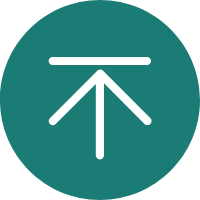
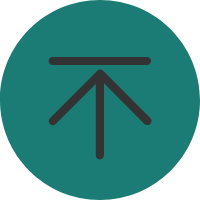
侧边加返回顶部，删掉url的http://126啥啥的

Changed region(s): [[0.24, 0.27, 0.78, 0.81]]

diff --git a/src/main/webapp/JS/renderCommentAndPost.js b/src/main/webapp/JS/renderCommentAndPost.js
@@ -25,8 +25,8 @@ function initializeCommentsAndReplys(type,parentId,userid)
 {
     $.ajax({
         type:'get',
-        // url: 'http://192.168.43.236:8080/WritingCommentServlet?parentId=1&userid=3&type=article',
-        url:'http://192.168.43.236:8080/WritingCommentServlet?type='+type+'&userid=3&parentId='+parentId,
+        // url: '/WritingCommentServlet?parentId=1&userid=3&type=article',
+        url:'/WritingCommentServlet?type='+type+'&userid=3&parentId='+parentId,
         dataType: 'json',
         contentType: "application/json",
         success:function(res){//成功的回调函数
@@ -68,7 +68,6 @@ function countsAndPages(totalCount,totalPage,type,parentId,userid)
                 $(".answerPosts_list > li").remove();
                 //加载出页码为1的评论
                 getCommentsAndReplys(parentId,userid,"time",1,type);
-                // getCommentsAndReplys('http://192.168.43.236:8080/WritingCommentServlet?parentId=1&userid=3&order=time&currentPage=1&type=article');
                 $(".answerLayPageBox > p").hide();  //点击完“加载更多”后，加载更多消失
                //总条数大于10，显示分页栏
                 if(totalCount > 10)
@@ -77,7 +76,6 @@ function countsAndPages(totalCount,totalPage,type,parentId,userid)
                     var isComment = true;   //判断是评论还是回复
                     //创建分页栏
                     laypageList($(".answerLayPageBox"),totalPage,parentId,userid,"time",type,isComment);
-                    // laypageList($(".answerLayPageBox"),totalPage,$(".answerPosts_list"));   
                 }
             }
         });
@@ -85,20 +83,11 @@ function countsAndPages(totalCount,totalPage,type,parentId,userid)
 }
 
 //—————————————————————————————— 点击评论列表的“加载更多”出现 ——————————————————————————————
-// getCommentsAndReplys('http://192.168.43.236:8080/WritingCommentServlet?parentId=1&userid=3&order=time&currentPage=1&type=article');
-
 function getCommentsAndReplys(parentId,userid,order,currentPage,type)
 {
     $.ajax({
         type:'get',
-        // url: 'http://192.168.43.236:8080/WritingCommentServlet?parentId=1&userid=3&type=article',
-        //1评论3回复的测试192.168.43.236
-        // url:'http://192.168.137.150:8080/WritingCommentServlet?parentId=4&userid=3&order=time&currentPage=1&type=article',
-        //热点的ip
-        // url: 'http://192.168.43.236:8080/WritingCommentServlet?parentId=4&userid=3&order=time&currentPage=1&type=article',
-        // url:'http://192.168.43.236:8080/WritingCommentServlet?parentId=1&order=time&currentPage=1&type=article&targetId=1',
-        //直接上的
-        url:'http://192.168.43.236:8080/WritingCommentServlet?parentId='+parentId+'&order='+order+'&currentPage='+currentPage+'&type='+type,
+        url:'/WritingCommentServlet?parentId='+parentId+'&order='+order+'&currentPage='+currentPage+'&type='+type,
         dataType: 'json',
         contentType: "application/json",
         success:function(res){//成功的回调函数
@@ -117,18 +106,13 @@ function getCommentsAndReplys(parentId,userid,order,currentPage,type)
         }
     });
 }
-// getCommentsAndReplys('http://192.168.43.236:8080/WritingCommentServlet?parentId=1&userid=3&order=time&currentPage=1&type=article');
 
 //————————————————————————— 评论下的回复，点击“加载更多”后才出现 ——————————————————————————————————
 function getUnderCommentssReplys(floorNum,parentId,order,currentPage,type,targetId)
 {
     $.ajax({
         type:'get',
-        //热点的ip
-        // url:'http://192.168.43.236:8080/WritingCommentServlet?parentId=1&order=time&currentPage=1&type=article&targetId=1',
-        //直接上的
-        // url:'http://192.168.137.150:8080/WritingCommentServlet?parentId=1&order=time&currentPage=1&type=article&targetId=1',
-        url:'http://192.168.43.236:8080/WritingCommentServlet?parentId='+parentId+'&order='+order+'&currentPage='+currentPage+'&type='+type+'&targetId='+targetId,
+        url:'/WritingCommentServlet?parentId='+parentId+'&order='+order+'&currentPage='+currentPage+'&type='+type+'&targetId='+targetId,
         dataType: 'json',
         contentType: "application/json",
         success:function(res){//成功的回调函数
@@ -209,7 +193,6 @@ function replysCommentsRender(replys,floorNum)
     replyPublishUp(replyListPosition(floorNum),userNickname,timestampToTime(postTime),replyContent,src);
 }
 
-// replyPublishContent(replyListPosition($("#111")),"sfa","111","wjfh","");
 //————————————————————— 获取回复所属评论的list位置 ———————————————————————————
 function replyListPosition(floorNum)
 {   //根据楼层数，让回复跟着所在的评论楼层

diff --git a/src/main/webapp/JS/searchFunction.js b/src/main/webapp/JS/searchFunction.js
@@ -52,7 +52,7 @@ function getSearchDetails(str,idNum)
 {
     $.ajax({
         type:'get',
-        url:'http://192.168.43.236:8080/WritingSearchServlet?wd='+str+'&currentPage=1',
+        url:'/WritingSearchServlet?wd='+str+'&currentPage=1',
         data:{},
         dataType: 'json',
         contentType: 'application/json',
@@ -76,13 +76,13 @@ function skipToType(type,id)
 {
     if(type == 'posts')
     {//跳转到帖子
-        window.location.href = 'http://192.168.43.236:8080/answerPosts.html?'+type+'=' + id;
-        // window.open('http://192.168.43.236:8080/answerPosts.html?'+type+'=' + id); 
+        window.location.href = '/answerPosts.html?'+type+'=' + id;
+        // window.open('/answerPosts.html?'+type+'=' + id); 
     }
     else if(type == 'article')
     {//跳转到文章
-        window.location.href = 'http://192.168.43.236:8080/articleShow.html?'+type+'=' + id;
-        // window.open('http://192.168.43.236:8080/articleShow.html?'+type+'=' + id); 
+        window.location.href = '/articleShow.html?'+type+'=' + id;
+        // window.open('/articleShow.html?'+type+'=' + id); 
     }
 }
 
@@ -102,7 +102,7 @@ function getSearchTipsData(str)
 {
     $.ajax({
         type:'get',
-        url:'http://192.168.43.236:8080/WritingSearchTipServlet?wd='+str+'&currentPage=1',
+        url:'/WritingSearchTipServlet?wd='+str+'&currentPage=1',
         data:{},
         dataType: 'json',
         contentType: 'application/json',

diff --git a/src/main/webapp/chatRoom.html b/src/main/webapp/chatRoom.html
@@ -85,13 +85,13 @@
                         <img src="./img/chatRoomLogo.png" alt=""/>
                     </li>
                     <li>
-                        <a href="#">学习天地</a>
+                        <a href="./LearningWorld_HS.html">学习天地</a>
                     </li>
                     <li>
-                        <a href="#">专业介绍</a>
+                        <a href="./professionalIntroduction.html">专业介绍</a>
                     </li>
                     <li>
-                        <a href="#">大学生活</a>
+                        <a href="./universityLife.html">大学生活</a>
                     </li>
                 </ul>
                 <div id="personalCenter">

diff --git a/src/main/webapp/CSS/universityLife.css b/src/main/webapp/CSS/universityLife.css
@@ -510,3 +510,23 @@ body{
     color: #333333;
 }
 
+/* ———————————————————————— 回到顶部 ———————————————————————————— */
+#returnToTopBtn{
+    width: 50px;
+    height: 50px;
+    position: fixed;
+    bottom: calc(25% - 60px);
+    right: 60px;
+    border-radius: 50%;
+    background: url(../img/answerPosts_toTop.png) no-repeat;
+    background-size: 51px;
+    background-color: #fff;
+    box-shadow: 1px 1px 10px rgba(0, 0, 0,0.2);
+    cursor: pointer;
+    transition-duration: 0.3s;
+    /* border: 1px solid #f00; */
+}
+
+#returnToTopBtn:hover{
+    background-image: url(../img/answerPosts_toTopHover.png);
+}

diff --git a/src/main/webapp/JS/replysAndPosts.js b/src/main/webapp/JS/replysAndPosts.js
@@ -351,7 +351,6 @@ function laypageList(positionBox,pageNum,parentId,userid,order,type,isComment)
                 $(".answerPosts_list > li").remove();
                 //获得评论楼层的
                 getCommentsAndReplys(parentId,userid,order,pageNumber,type);
-                // getCommentsAndReplys('http://192.168.43.236:8080/WritingCommentServlet?parentId=1&userid=3&order=time&currentPage='+pageNumber+'&type=article');
                 //缓慢回到顶部
                 $("html,body").stop().animate({
                     scrollTop: 800

diff --git a/src/main/webapp/universityLife.html b/src/main/webapp/universityLife.html
@@ -507,8 +507,10 @@
         </section>
     </div>
 </div>
+<div id="returnToTopBtn"></div>
 </body>
 <script src="JS/jQuery.js"></script>
+<script src="JS/models.js"></script>
 <script src="./JS/debounceAndThrottle.js"></script>
 <script src="./JS/searchFunction.js"></script>
 <script src="./JS/getSearch.js"></script>

diff --git a/src/main/webapp/JS/universityLife.js b/src/main/webapp/JS/universityLife.js
@@ -124,3 +124,6 @@ setInterval(function () {
         HP_time = 0;
     }
 }, 150);
+
+//——————————————— 点击回到顶部 —————————————————
+slowToTop($("#returnToTopBtn"));

diff --git a/src/main/webapp/CSS/chatRoom.css b/src/main/webapp/CSS/chatRoom.css
@@ -351,7 +351,7 @@
 .clickShowSideBar::after{
     content: '';
     position: absolute;
-    right: -65px;
+    right: -66px;
     top: 22px;
     width: 65px;
     height: 3px;
